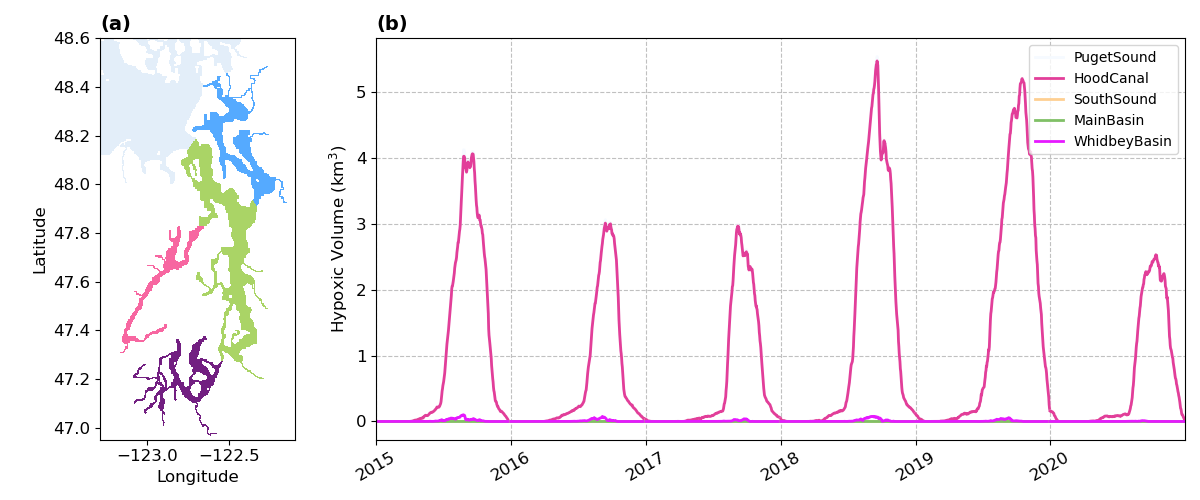
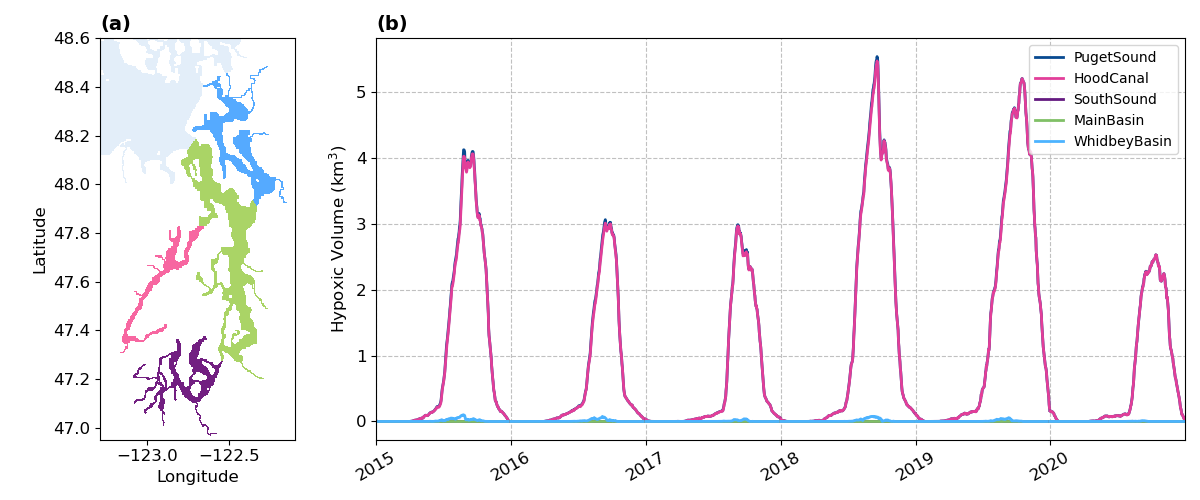
edit hyparea_subbasin_comparison

diff --git a/hypvol_for_intrmdl_cmprsn/hyparea_subbasin_comparison.py b/hypvol_for_intrmdl_cmprsn/hyparea_subbasin_comparison.py
@@ -1,0 +1,235 @@
+"""
+Compare average bottom DO between multiple years
+(Set up to run for 6 years)
+
+"""
+
+# import things
+import matplotlib.dates as mdates
+import numpy as np
+import xarray as xr
+import pandas as pd
+import matplotlib.pylab as plt
+import matplotlib.cm as cm
+
+from lo_tools import Lfun
+from lo_tools import plotting_functions as pfun
+
+import sys
+from pathlib import Path
+pth = Path(__file__).absolute().parent.parent.parent / 'LO' / 'pgrid'
+if str(pth) not in sys.path:
+    sys.path.append(str(pth))
+import gfun
+
+Gr = gfun.gstart()
+
+Ldir = Lfun.Lstart()
+
+##############################################################
+##                       USER INPUTS                        ##
+##############################################################
+
+vn = 'oxygen'
+
+years =  ['2015','2016','2017','2018','2019','2020']
+
+# which  model run to look at?
+gtagexes = ['cas7_t1_x11ab','cas7_t1noDIN_x11ab']
+# gtagex cas7_t1noDIN_x11ab is no-loading, cas7_t1_x11ab is loading
+
+# # where to put output figures
+# out_dir = Ldir['LOo'] / 'chapter_2' / 'figures'
+# Lfun.make_dir(out_dir)
+
+region = 'pugetsoundDO'
+
+
+##############################################################
+##                      PROCESS DATA                        ##
+##############################################################
+
+plt.close('all')
+
+print('Running....')
+
+# initialize empty dictionaries
+DO_bot_dict          = {} # bottom DO concentration [mg/L]
+hyp_thick_dict       = {} # hypoxic thickness [m]
+water_depth_dict     = {} # time-variable water depth [m]
+one_mgL_thick_dict   = {} # thickness of water column that is <= 1 mg/L DO [m]
+three_mgL_thick_dict = {} # thickness of water column that is <= 3 mg/L DO [m]
+
+for year in years:
+    for gtagex in gtagexes:
+        # open dataset
+        ds = xr.open_dataset(Ldir['LOo'] / 'hypvol_for_intrmdl_cmprsn' / (gtagex + '_' + region + '_' + year + '_DO_info.nc'))
+        # get data from dataset
+        DO_bot = ds['DO_bot'].values
+        hyp_thick = ds['hyp_thick'].values
+        water_depth_m = ds['depth_bot'].values * -1 # don't want negative depths
+        one_mgL_thick = ds['one_mgL_thick'].values
+        three_mgL_thick = ds['three_mgL_thick'].values
+        # save values to dictionary
+        DO_bot_dict[gtagex+region+year] = DO_bot
+        hyp_thick_dict[gtagex+region+year] = hyp_thick
+        water_depth_dict[gtagex+region+year] = water_depth_m
+        one_mgL_thick_dict[gtagex+region+year] = one_mgL_thick
+        three_mgL_thick_dict[gtagex+region+year] = three_mgL_thick
+
+# get grid cell area
+fp = Ldir['LOo'] / 'hypvol_for_intrmdl_cmprsn' / (region + '_2014.01.01_2014.12.31.nc')
+box_ds = xr.open_dataset(fp)
+DX = (box_ds.pm.values)**-1
+DY = (box_ds.pn.values)**-1
+DA = DX*DY*(1/1000)*(1/1000) # get area, but convert from m^2 to km^2
+
+# read in masks
+basin_mask_ds = xr.open_dataset(Ldir['LOo'] / 'hypvol_for_intrmdl_cmprsn' / 'basin_masks_from_pugetsoundDObox.nc')
+mask_rho = basin_mask_ds.mask_rho.values
+mask_ps = basin_mask_ds.mask_pugetsound.values
+mask_hc = basin_mask_ds.mask_hoodcanal.values
+mask_ss = basin_mask_ds.mask_southsound.values
+mask_mb = basin_mask_ds.mask_mainbasin.values
+mask_wb = basin_mask_ds.mask_whidbeybasin.values
+
+# subbasin masks dictionary
+subbasin_masks = {
+    'PugetSound': mask_ps,
+    'HoodCanal': mask_hc,
+    'SouthSound': mask_ss,
+    'MainBasin': mask_mb,
+    'WhidbeyBasin': mask_wb
+}
+
+# initialize dictionary for hypoxic area [km^2]
+hyp_area = {}
+water_area = {}
+
+for year in years:
+    for gtagex in gtagexes:
+        
+        hypoxic_bot_filter = DO_bot < 2 # boolean filter for hypoxic bottom water (DO < 2 mg/L)
+
+        for subbasin, mask in subbasin_masks.items():
+
+            # hypoxic area
+            hyp_area_masked = hypoxic_bot_filter * mask
+            hyp_area_timeseries = np.nansum(hyp_area_masked * DA, axis=(1, 2))  # km^2
+            hyp_area[gtagex + region + subbasin + year] = hyp_area_timeseries
+
+            # total water area
+            water_area_masked = DA * mask
+            water_area_timeseries = np.nansum(water_area_masked, axis=(1, 2))  # km^2
+            water_area[gtagex + region + subbasin + year] = water_area_timeseries
+
+
+# get lon and lat for making pcolormesh plot
+lon = basin_mask_ds.lon_rho.values
+lat = basin_mask_ds.lat_rho.values
+plon, plat = pfun.get_plon_plat(lon,lat)
+
+##############################################################
+##              PLOT HYPOXIC AREA TIME SERIES             ##
+##############################################################
+
+# Puget Sound bounds
+xmin = -123.29
+xmax = -122.1
+ymin = 46.95
+ymax = 48.6
+
+# initialize figure
+fig, (ax0, ax1) = plt.subplots(1,2,figsize = (12,5),gridspec_kw={'width_ratios': [1, 3.5]})
+# fig, (ax0, ax1) = plt.subplots(1,2,figsize = (6,3),gridspec_kw={'width_ratios': [1, 2.8]})
+
+# format figure
+ax0.set_xlim([xmin,xmax])
+ax0.set_ylim([ymin,ymax])
+ax0.set_ylabel('Latitude', fontsize=12)
+ax0.set_xlabel('Longitude', fontsize=12)
+ax0.tick_params(axis='both', labelsize=12)
+# plot map of Puget Sound
+ax0.pcolormesh(plon, plat, np.where(mask_rho == 0, np.nan, mask_rho),
+                vmin=0, vmax=10, cmap='Blues')
+# Hood Canal
+ax0.pcolormesh(plon, plat, np.where(mask_hc == 0, np.nan, mask_hc),
+            vmin=0, vmax=2, cmap='RdPu' )
+# South Sound
+ax0.pcolormesh(plon, plat, np.where(mask_ss == 0, np.nan, mask_ss),
+              vmin=0, vmax=3, cmap='magma' )
+# Main Basin
+ax0.pcolormesh(plon, plat, np.where(mask_mb == 0, np.nan, mask_mb),
+              vmin=0, vmax=1.5, cmap='summer' )
+# # Whidbey Basin
+ax0.pcolormesh(plon, plat, np.where(mask_wb == 0, np.nan, mask_wb),
+              vmin=0, vmax=3, cmap='cool' )
+
+pfun.dar(ax0)
+ax0.set_title('(a)', fontsize = 14, loc='left', fontweight='bold')
+
+# Get nominal Puget Sound volume (non time-varying)
+PS_vol = np.nansum(basin_mask_ds['h'].values/1000 * DA * mask_ps) # [km^3]
+print('Puget Sound volume: {} km3'.format(round(PS_vol,1)))
+
+
+subbasin_colors = {
+    'PugetSound': cm.Blues(0.9),
+    'HoodCanal': cm.RdPu(0.6),
+    'SouthSound': cm.magma(0.3),
+    'MainBasin': cm.summer(0.5),
+    'WhidbeyBasin': cm.cool(0.3),
+}
+
+subbasins = list(subbasin_colors.keys())
+
+gtagex = gtagexes[0]  # loading run only
+
+# plot hypoxic volume timeseries
+for year in years:
+
+    startdate = year + '.01.01'
+    enddate = year + '.12.31'
+    dates = pd.date_range(start=startdate, end=enddate, freq='1d')
+    dates_local = [pfun.get_dt_local(x) for x in dates]
+
+    for subbasin in subbasin_colors.keys():
+
+        key = gtagex + region + subbasin + year
+        
+        if year == years[0]:
+            ax1.plot(dates_local, hyp_area[key],
+                    color=subbasin_colors[subbasin],
+                    linewidth=2,
+                    label=subbasin)
+        else:
+            ax1.plot(dates_local, hyp_area[key],
+                    color=subbasin_colors[subbasin],
+                    linewidth=2)
+
+# axis labels
+ax1.set_ylabel('Hypoxic Area (km$^2$)', fontsize=12)
+
+# combine legends from both axes
+lines, labels = ax1.get_legend_handles_labels()
+ax1.legend(lines, labels, loc='upper right')
+
+# format figure
+ax1.grid(visible=True, axis='both', color='silver', linestyle='--')
+ax1.xaxis.set_major_formatter(mdates.DateFormatter("%Y"))
+ax1.tick_params(axis='x', rotation=30, labelsize=12)
+ax1.tick_params(axis='y', labelsize=12)
+
+plt.title('(b)', fontsize = 14, loc='left', fontweight='bold')
+# create time vector
+startdate = years[0]+'.01.01'
+enddate = years[-1]+'.12.31'
+dates = pd.date_range(start= startdate, end= enddate, freq= '1d')
+dates_local = [pfun.get_dt_local(x) for x in dates]
+ax1.set_xlim([dates_local[0],dates_local[-1]])
+
+plt.tight_layout()
+# plt.show()
+plt.savefig('hyparea_subbasin_comparison_fig.png')
+
+print('Done')
